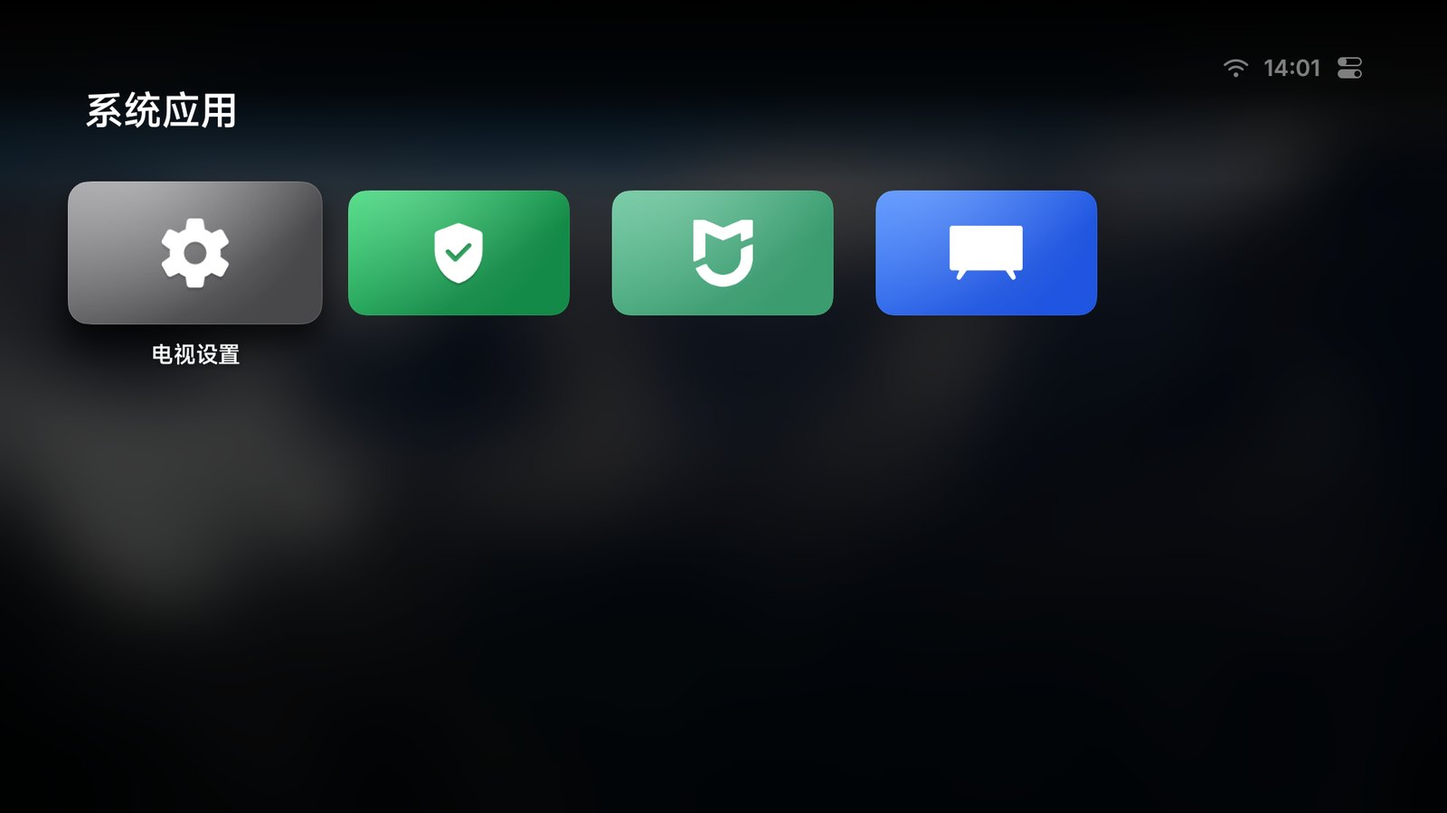
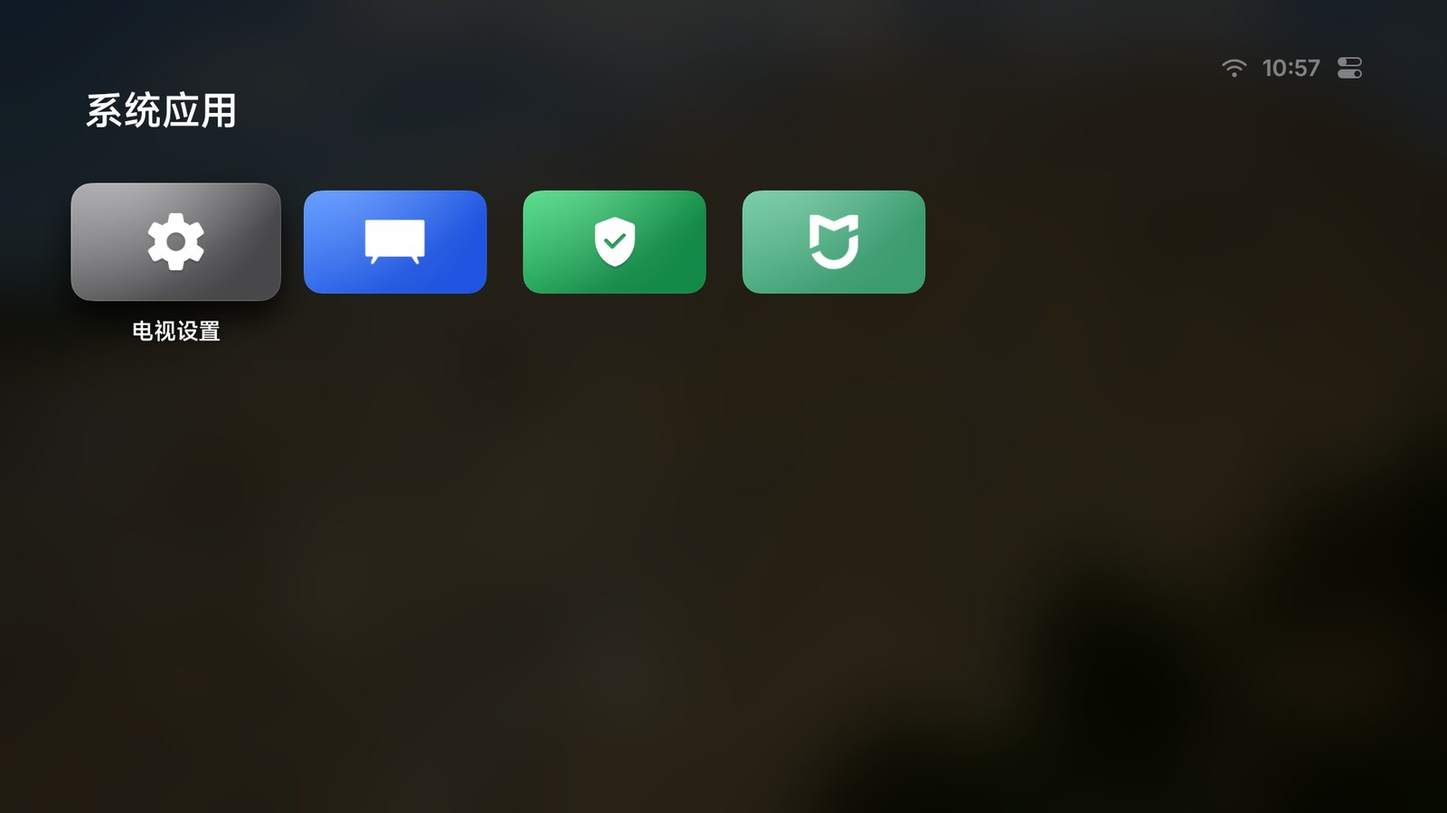
Site and README: screenshots from 1.65 on the Xiaomi, six per row over bright aerial films; Layout section, Open When TV Turns On, video wallpapers, Lite chip

diff --git a/site/en/index.html b/site/en/index.html
@@ -16,7 +16,7 @@
 <meta name="description" content="An open-source, tvOS-style home screen for Android TV. No ads, no recommendation feeds. Just your apps, your wallpaper and Apple TV's aerial screensavers. Built for Xiaomi, TCL, Skyworth, Sony and other TVs and boxes sold in China.">
 <meta property="og:title" content="Aerial · A calm home screen for Android TV">
 <meta property="og:description" content="An open-source, tvOS-style home screen for Android TV. No ads, and it stays your home screen.">
-<meta property="og:image" content="../img/home.jpg?v=147">
+<meta property="og:image" content="../img/home.jpg?v=165">
 <meta name="theme-color" content="#000000">
 <link rel="alternate" hreflang="zh" href="https://aerial.qust.me/">
 <link rel="alternate" hreflang="en" href="https://aerial.qust.me/en/">
@@ -55,7 +55,7 @@
       <div class="glow"></div>
       <div class="screen compare" id="compare" role="slider" tabindex="0" aria-label="The TV's stock home screen compared with Aerial. Move left or right to compare." aria-valuemin="0" aria-valuemax="100" aria-valuenow="0">
         <img class="before" src="../img/stock-xiaomi.jpg?v=3" alt="The TV's stock home screen, covered in show recommendations and membership badges" width="1600" height="900">
-        <div class="after"><img src="../img/home.jpg?v=147" alt="Aerial's home screen: a landscape wallpaper and a row of apps on a glass shelf" width="1600" height="900"></div>
+        <div class="after"><img src="../img/home.jpg?v=165" alt="Aerial's home screen: an aerial wallpaper of Waimanu Valley, Hawaii, and six apps in a row on a glass shelf" width="1600" height="900"></div>
         <div class="divider" aria-hidden="true"><span class="knob"><svg width="20" height="20" viewBox="0 0 24 24" fill="none" stroke="currentColor" stroke-width="2.4" stroke-linecap="round" stroke-linejoin="round"><path d="M9 6l-6 6 6 6M15 6l6 6-6 6"/></svg></span></div>
       </div>
       <div class="stand"></div>
@@ -75,7 +75,7 @@
     </div>
 
     <div class="feature reveal">
-      <div class="shot"><img src="../img/focus.jpg?v=146" alt="The glass shelf under the top row, with an app in focus" loading="lazy" width="1600" height="900"></div>
+      <div class="shot"><img src="../img/focus.jpg?v=165" alt="Netflix in focus on the top row, over an aerial wallpaper of Landmannalaugar, Iceland" loading="lazy" width="1600" height="900"></div>
       <div>
         <p class="kicker">Home</p>
         <h3>As easy as<br>Apple TV.</h3>
@@ -85,16 +85,17 @@
     </div>
 
     <div class="feature flip reveal">
-      <div class="shot"><img src="../img/menu.jpg?v=146" alt="The long-press menu: Move, Move to Folder, Hide, App Info, Uninstall" loading="lazy" width="1600" height="900"></div>
+      <div class="shot"><img src="../img/menu.jpg?v=165" alt="The long-press menu: Move, Move to Folder, Hide from Home, App Info, Open When TV Turns On, Uninstall" loading="lazy" width="1600" height="900"></div>
       <div>
         <p class="kicker">Organize</p>
         <h3>Hold OK<br>to make it yours.</h3>
         <p><strong>Move</strong>, put in a <strong>folder</strong>, <strong>hide</strong>, inspect or uninstall any app. Hidden apps wait in Personalize.</p>
+        <p>Choose <strong>Open When TV Turns On</strong> and the TV goes straight to that app or input when it turns on or wakes, and leaves you alone while it stays on.</p>
       </div>
     </div>
 
     <div class="feature reveal">
-      <div class="shot"><img src="../img/folder.jpg?v=146" alt="An open folder of system apps" loading="lazy" width="1600" height="900"></div>
+      <div class="shot"><img src="../img/folder.jpg?v=165" alt="An open folder of system apps" loading="lazy" width="1600" height="900"></div>
       <div>
         <p class="kicker">Folders</p>
         <h3>Tuck the TV's own apps<br>into a folder.</h3>
@@ -103,11 +104,20 @@
     </div>
 
     <div class="feature flip reveal">
-      <div class="shot"><img src="../img/control-center.jpg?v=146" alt="Control Center: inputs, network, settings, volume and brightness" loading="lazy" width="1600" height="900"></div>
+      <div class="shot"><img src="../img/control-center.jpg?v=165" alt="Control Center: inputs, network, settings, volume and brightness" loading="lazy" width="1600" height="900"></div>
       <div>
         <p class="kicker">Control Center</p>
         <h3>Everyday controls,<br>one button away.</h3>
         <p>Inputs, network, settings, volume and brightness, all in one place. Pin an HDMI input to Home to switch in one press.</p>
+      </div>
+    </div>
+
+    <div class="feature reveal">
+      <div class="shot"><img src="../img/columns.jpg?v=165" alt="Home settings in Personalize, with six apps per row chosen" loading="lazy" width="1600" height="900"></div>
+      <div>
+        <p class="kicker">Layout</p>
+        <h3>As many per row<br>as you like.</h3>
+        <p>Four, five or six apps a row, one row or two, and your pick of clock size, app names and the glass shelf. Folders and the phone page follow along.</p>
       </div>
     </div>
   </div>
@@ -121,12 +131,12 @@
     </div>
     <div class="gallery reveal">
       <figure>
-        <div class="shot"><img src="../img/screensaver-aerial.jpg?v=146" alt="Aerial screensaver over the Pu‘u O ‘Umi Natural Area Reserve, Hawaii" loading="lazy" width="1600" height="900"></div>
-        <figcaption>Pu‘u O ‘Umi Natural Area Reserve, Hawaii</figcaption>
+        <div class="shot"><img src="../img/screensaver-aerial.jpg?v=165" alt="Aerial screensaver passing Half Dome in Yosemite Valley" loading="lazy" width="1600" height="900"></div>
+        <figcaption>Half Dome, Yosemite Valley</figcaption>
       </figure>
       <figure>
-        <div class="shot"><img src="../img/screensaver-aerial-2.jpg?v=146" alt="Aerial screensaver over the Tungnaá River in the Icelandic Highlands" loading="lazy" width="1600" height="900"></div>
-        <figcaption>The Tungnaá River, Icelandic Highlands</figcaption>
+        <div class="shot"><img src="../img/screensaver-aerial-2.jpg?v=165" alt="Aerial screensaver over the Great Wall at Mutianyu, Beijing" loading="lazy" width="1600" height="900"></div>
+        <figcaption>The Great Wall at Mutianyu, Beijing</figcaption>
       </figure>
     </div>
   </div>
@@ -135,18 +145,18 @@
 <section>
   <div class="wrap">
     <div class="feature reveal">
-      <div class="shot"><img src="../img/wallpaper.jpg?v=146" alt="The Personalize panel" loading="lazy" width="1600" height="900"></div>
+      <div class="shot"><img src="../img/wallpaper.jpg?v=165" alt="The Personalize panel, with the aerial wallpaper chosen" loading="lazy" width="1600" height="900"></div>
       <div>
         <p class="kicker">Wallpaper</p>
-        <h3>A new view every day,<br>or your own photos.</h3>
-        <p>Bing's photo of the day, fourteen Mac-style built-ins, or photos from your phone.</p>
+        <h3>A view that moves,<br>or your own photos.</h3>
+        <p>The aerial wallpaper plays slowly behind your apps while you rest on Home, and stops on the frame at any key. Or pick Bing's photo of the day, fourteen Mac-style built-ins, or photos and videos from your phone.</p>
       </div>
     </div>
     <div class="phone-row reveal" style="margin-top:110px">
       <div>
         <p class="kicker">Set up from your phone</p>
         <h3 class="sub">Scan.<br>Don't type.</h3>
-        <p class="muted">Scan the code on the TV to arrange Home on your phone (drag to reorder, rename, change icons, folders, hide, add HDMI), upload photos, pick a wallpaper or change the screensaver.</p>
+        <p class="muted">Scan the code on the TV to arrange Home on your phone (drag to reorder, rename, change icons, folders, hide, add HDMI), upload photos and videos, pick a wallpaper or change the screensaver.</p>
       </div>
       <div class="phone"><img src="../img/phone.jpg?v=147" alt="The Home Screen tab of the phone page: the TV's tiles in a grid" loading="lazy" width="780" height="1384"></div>
     </div>
@@ -183,6 +193,7 @@
       <span class="chip"><b>Sony BRAVIA</b> · Android 10–12</span>
       <span class="chip"><b>Konka</b> · Android 9</span>
       <span class="chip"><b>Boxes and projectors</b> · XGIMI, OBE, Aurora</span>
+      <span class="chip"><b>Older TVs</b> · Android 4.0–4.4 with Aerial Lite</span>
       <a class="chip chip-link" href="https://github.com/pengchujin/aerial-tv/blob/main/README.en.md#supported-tvs">Full <b>list</b> ›</a>
     </div>
     <p class="note devices-note reveal">Hisense / Vidda and some Coocaa sets boot into their own home first; FFALCON MT9655 models can't be taken over yet.</p>

diff --git a/site/index.html b/site/index.html
@@ -16,7 +16,7 @@
 <meta name="description" content="参照 tvOS 设计的开源 Android TV 桌面。没有广告，没有推荐流，只有你的 App、你的壁纸和航拍屏保。支持小米、TCL、创维、索尼等国产电视和盒子，开机自动接管。">
 <meta property="og:title" content="Aerial · 给国产电视的一块干净桌面">
 <meta property="og:description" content="参照 tvOS 设计的开源电视桌面，没有广告，开机自动接管。">
-<meta property="og:image" content="img/home.jpg?v=147">
+<meta property="og:image" content="img/home.jpg?v=165">
 <meta name="theme-color" content="#000000">
 <link rel="alternate" hreflang="zh" href="https://aerial.qust.me/">
 <link rel="alternate" hreflang="en" href="https://aerial.qust.me/en/">
@@ -56,7 +56,7 @@
       <div class="glow"></div>
       <div class="screen compare" id="compare" role="slider" tabindex="0" aria-label="电视自带的桌面和 Aerial 的对比，左右移动查看" aria-valuemin="0" aria-valuemax="100" aria-valuenow="0">
         <img class="before" src="img/stock-xiaomi.jpg?v=3" alt="电视自带的桌面：满屏剧集推荐、会员和限免角标" width="1600" height="900">
-        <div class="after"><img src="img/home.jpg?v=147" alt="Aerial 首页：风景壁纸和玻璃底板上的一排 App" width="1600" height="900"></div>
+        <div class="after"><img src="img/home.jpg?v=165" alt="Aerial 首页：夏威夷威马努山谷的航拍壁纸，玻璃底板上一排六个 App" width="1600" height="900"></div>
         <div class="divider" aria-hidden="true"><span class="knob"><svg width="20" height="20" viewBox="0 0 24 24" fill="none" stroke="currentColor" stroke-width="2.4" stroke-linecap="round" stroke-linejoin="round"><path d="M9 6l-6 6 6 6M15 6l6 6-6 6"/></svg></span></div>
       </div>
       <div class="stand"></div>
@@ -76,7 +76,7 @@
     </div>
 
     <div class="feature reveal">
-      <div class="shot"><img src="img/focus.jpg?v=146" alt="第一排的玻璃底板，选中了一个 App" loading="lazy" width="1600" height="900"></div>
+      <div class="shot"><img src="img/focus.jpg?v=165" alt="冰岛兰德曼纳劳卡的航拍壁纸前，第一排选中了 Netflix" loading="lazy" width="1600" height="900"></div>
       <div>
         <p class="kicker">首页</p>
         <h3>像 Apple TV<br>一样顺手。</h3>
@@ -86,16 +86,17 @@
     </div>
 
     <div class="feature flip reveal">
-      <div class="shot"><img src="img/menu.jpg?v=146" alt="长按菜单：移动、移到文件夹、隐藏、应用信息、卸载" loading="lazy" width="1600" height="900"></div>
+      <div class="shot"><img src="img/menu.jpg?v=165" alt="长按菜单：移动、移到文件夹、从主屏幕隐藏、应用信息、开机时打开、卸载" loading="lazy" width="1600" height="900"></div>
       <div>
         <p class="kicker">整理</p>
         <h3>长按一下，<br>想怎么排就怎么排。</h3>
         <p>长按 OK 键：<strong>移动</strong>、<strong>移到文件夹</strong>、<strong>隐藏</strong>、查看信息、卸载。隐藏的 App 可以在「个性化」里找回。</p>
+        <p>选「<strong>开机时打开</strong>」，电视开机或待机醒来就直接进这个 App 或信号源，一直开着时不会再跳。</p>
       </div>
     </div>
 
     <div class="feature reveal">
-      <div class="shot"><img src="img/folder.jpg?v=146" alt="打开的文件夹：系统应用" loading="lazy" width="1600" height="900"></div>
+      <div class="shot"><img src="img/folder.jpg?v=165" alt="打开的文件夹：系统应用" loading="lazy" width="1600" height="900"></div>
       <div>
         <p class="kicker">文件夹</p>
         <h3>系统自带的 App，<br>收进一个文件夹。</h3>
@@ -104,11 +105,20 @@
     </div>
 
     <div class="feature flip reveal">
-      <div class="shot"><img src="img/control-center.jpg?v=146" alt="控制中心：信号源、网络、设置、音量和亮度" loading="lazy" width="1600" height="900"></div>
+      <div class="shot"><img src="img/control-center.jpg?v=165" alt="控制中心：信号源、网络、设置、音量和亮度" loading="lazy" width="1600" height="900"></div>
       <div>
         <p class="kicker">控制中心</p>
         <h3>常用开关，<br>一键就到。</h3>
         <p>信号源、网络、设置、音量、亮度都在这里。HDMI 还能固定到首页，一键切换。</p>
+      </div>
+    </div>
+
+    <div class="feature reveal">
+      <div class="shot"><img src="img/columns.jpg?v=165" alt="个性化的主屏幕设置：每排 App 选了 6 个" loading="lazy" width="1600" height="900"></div>
+      <div>
+        <p class="kicker">布局</p>
+        <h3>一排放几个，<br>你说了算。</h3>
+        <p>每排 4、5 或 6 个 App，单排或双排，时钟大小、App 名称、第一排底板也都能改。文件夹和手机上的整理页跟着一起变。</p>
       </div>
     </div>
   </div>
@@ -122,12 +132,12 @@
     </div>
     <div class="gallery reveal">
       <figure>
-        <div class="shot"><img src="img/screensaver-aerial.jpg?v=146" alt="航拍屏保：俯瞰夏威夷岛 Pu‘u O ‘Umi 自然保护区" loading="lazy" width="1600" height="900"></div>
-        <figcaption>夏威夷岛 Pu‘u O ‘Umi 自然保护区</figcaption>
+        <div class="shot"><img src="img/screensaver-aerial.jpg?v=165" alt="航拍屏保：途经美国优胜美地谷的半穹顶" loading="lazy" width="1600" height="900"></div>
+        <figcaption>美国优胜美地谷的半穹顶</figcaption>
       </figure>
       <figure>
-        <div class="shot"><img src="img/screensaver-aerial-2.jpg?v=146" alt="航拍屏保：俯瞰冰岛高地通纳河" loading="lazy" width="1600" height="900"></div>
-        <figcaption>冰岛高地通纳河</figcaption>
+        <div class="shot"><img src="img/screensaver-aerial-2.jpg?v=165" alt="航拍屏保：中国北京怀柔区慕田峪长城" loading="lazy" width="1600" height="900"></div>
+        <figcaption>北京怀柔慕田峪长城</figcaption>
       </figure>
     </div>
   </div>
@@ -136,18 +146,18 @@
 <section>
   <div class="wrap">
     <div class="feature reveal">
-      <div class="shot"><img src="img/wallpaper.jpg?v=146" alt="个性化面板" loading="lazy" width="1600" height="900"></div>
+      <div class="shot"><img src="img/wallpaper.jpg?v=165" alt="个性化面板：壁纸选了航拍" loading="lazy" width="1600" height="900"></div>
       <div>
         <p class="kicker">壁纸</p>
-        <h3>每天一张新风景，<br>或者你的照片。</h3>
-        <p>必应每日精选、14 张 Mac 风格的内置壁纸，或者从手机传的照片。</p>
+        <h3>会动的风景，<br>或者你的照片。</h3>
+        <p>航拍壁纸停在主屏幕时在 App 后面慢慢播放，按任意键停在当前画面。也可以选必应每日一图、14 张 Mac 风格的内置壁纸，或者从手机传的照片和视频。</p>
       </div>
     </div>
     <div class="phone-row reveal" style="margin-top:110px">
       <div>
         <p class="kicker">用手机设置</p>
         <h3 class="sub">扫一下，<br>不用遥控器打字。</h3>
-        <p class="muted">扫电视上的二维码，在手机上整理主屏幕（拖动排序、改名、换图标、文件夹、隐藏、加 HDMI），还能传照片、选壁纸、换屏保。</p>
+        <p class="muted">扫电视上的二维码，在手机上整理主屏幕（拖动排序、改名、换图标、文件夹、隐藏、加 HDMI），还能传照片和视频、选壁纸、换屏保。</p>
       </div>
       <div class="phone"><img src="img/phone.jpg?v=147" alt="手机设置页的主屏幕标签：和电视一样的图标网格" loading="lazy" width="780" height="1384"></div>
     </div>
@@ -184,6 +194,7 @@
       <span class="chip"><b>索尼 BRAVIA</b> · Android 10–12</span>
       <span class="chip"><b>康佳</b> · Android 9</span>
       <span class="chip"><b>盒子和投影仪</b> · 极米、大眼橙、极光盒子</span>
+      <span class="chip"><b>老电视</b> · Android 4.0–4.4 用 Aerial Lite</span>
       <a class="chip chip-link" href="https://github.com/pengchujin/aerial-tv#支持的机型">完整<b>机型列表</b> ›</a>
     </div>
     <p class="note devices-note reveal">海信 / Vidda 和部分酷开开机会先进原桌面，雷鸟 MT9655 机型暂时接管不了。</p>

diff --git a/docs/HANDOFF.md b/docs/HANDOFF.md
@@ -6,6 +6,8 @@
 
 - **1.65（versionCode 79）+ Aerial Lite 1.4（versionCode 5），2026-10-28 发布**（[v1.65](https://github.com/pengchujin/aerial-tv/releases/tag/v1.65)）：下一条的「每排 App：4 / 5 / 6」（户主要求，Lite 同样有，所以 Lite 升到 1.4）。正式包装到小米 MFTR0（standard，`adb install -r` + compile speed）和 TCL MT5879（guard，多屏互动推送，ADB 点「同意」：提示框出来时两个按钮都没焦点，第一次右键落到「拒绝」，第二次才到「同意」，每步截图确认）；两台 `selftest.sh` 的守护、Aerial 上按主页键、从其他 App 按主页键都通过（小米从设置 0.4 秒，TCL 从酷控 5.0 秒），信号源小米列出 8 个、TCL 7 个。`deploy-site.sh` 已跑，官网三个 APK 与 Release 大小一致，`download/version.txt` = v1.65。没有对应 issue 要回复（户主自己提的）。户主看过参照 tvOS 26 调尺寸（5:3 磁贴、同心圆角、1.225 倍放大）的效果后要求撤回，没有发布（Apple TV 1080p 截图量出：磁贴 250×150、间距 48、两边 90、底板四边 40、磁贴圆角约 30、底板圆角约 67、聚焦 1.225 倍）；不要再按那套改，除非户主再提。
 
+- **官网截图换成 1.65（2026-10-28，户主要求，未部署）**：小米 MFTR0 上拍，临时切成每排 6 个（户主指定），拍完 `--ei home_columns 5` 改回并截图确认。都用航拍壁纸里明亮的片子，每张换一个场景：首页夏威夷威马努山谷，聚焦和长按菜单（有新的「开机时打开」）冰岛兰德曼纳劳卡，网格和文件夹慕田峪长城，控制中心和个性化冰岛朗吉湖，屏保优胜美地半穹顶和慕田峪长城；新加 `columns.jpg`（个性化里「每排 App」焦点在 6）和官网「布局」一节，README 的个性化图换成它。控制中心模糊了 Wi-Fi 名称，个性化模糊了二维码、局域网地址和「我的照片」。官网文字补了开机时打开、每排 4/5/6、航拍壁纸、传视频、Android 4.x 用 Lite，图片 `?v=165`。屏保里刚切片时 `screencap` 常截到彩色噪点，多等几秒或唤醒后（画面停住）再截就正常。
+
 - **已随 1.65 发布（2026-10-28，户主要求：每排 App 数）**：个性化 → 主屏幕布局加「每排 App：4 / 5 / 6」（默认 5，6 个照 Apple TV 的排法），文件夹跟着变，手机页「整理主屏幕」网格也按电视的列数排（`layout.columns`）。`AerialSettings.homeColumns`（prefs `home_columns`，`ConfigReceiver --ei home_columns 6`，诊断 `Settings` 行加 `columns=`）；`HomeScreen` 的 `GridMetrics` 按列数算，间距 4/5/6 列为 34/28/24dp，边距不变；4 列时聚焦磁贴比原来的 352px 磁贴图大，所以 `TileArtFactory.fitColumns` 让 4 列的磁贴图画到 444px（1080p），切换时重新载入 App，5↔6 只按新尺寸重做磁贴面（`TileFaces` 换尺寸时丢掉旧尺寸）。Lite 同样改（`LiteSettings.homeColumns`，`HomeView` 的尺寸常量改成跟随设置，换列数后按新尺寸重载磁贴）。验证：小米 MFTR0 本地 standard release + compile speed：`--ei home_columns` 切 6、4 截图，4 列进网格、App 菜单位置正常，个性化里看到新行并在界面上点回 5（户主原来就是 5），无崩溃。放不满的情况用新加的测试开关看过：`ConfigReceiver --ei preview_apps N` 让首页只显示前 N 个磁贴，只在内存里，不隐藏、不移动任何 App，设 0 或重启就恢复；2、3 个 App × 4/5/6 列都截图看过，底板仍是整排宽、App 靠左（#284 的做法），没有错位，测完已设回 0 和 5 列。注意户主屏保 45 秒，`input keyevent` 的左右键在屏保里是换片，不会唤醒，要用上键。**没有真机验证的**：Lite（只过了编译和 `lintRelease`）、TCL、手机页的列数（没打开手机页看）。
 - **1.64（versionCode 78），2026-10-28 发布**（[v1.64](https://github.com/pengchujin/aerial-tv/releases/tag/v1.64)）：下面「户主报的」一条的两个屏保修复（图片壁纸 + 航拍屏保不再停在壁纸上；照片屏保开头推近不再抖）。Lite 没变，Release 里仍附 Lite 1.3（重新编译，versionCode 4）。正式包装到小米 MFTR0（standard，`adb install -r` + compile speed）和 TCL MT5879（guard，多屏互动推送，ADB 点「同意」）；两台 `selftest.sh` 的守护、Aerial 上按主页键、从其他 App 按主页键都通过（小米从设置 0.9 秒，TCL 从酷控 5.1 秒）。`deploy-site.sh` 已跑，官网三个 APK 与 Release 大小一致，`download/version.txt` = v1.64。没有对应 issue 要回复（户主自己报的）。
 - **已随 1.64 发布（2026-10-28，户主报的）**：静止（图片）壁纸 + 航拍屏保（4K 或杜比视界），进屏保时画面停在主屏的壁纸上几秒，影片才一下子跳出来。1.61 的 #683 引入：主屏把图片和时钟带进屏保，SurfaceView 等 2 秒才挂上，等影片动了再从图片淡入（1.62 #754 又让影片等 surface 才播）。小米 MFTR0 录屏：图片停到约 8 秒才切到影片，没有淡入。户主的意见：静止图和航拍（另一个平面、杜比视界 / HDR）过渡不了也不需要过渡，直接进航拍屏保；只有航拍壁纸接航拍屏保（都是 SDR）才接着放。现在去掉了这段接力（`aerialSaverPicture`、`SaverCarry.Still.thenAerials`、`AerialSaver` 的 `over`），回到 1.60 的做法（主屏淡到黑、影片淡入）；屏保播放器仍不用占位 surface（#754 的修复保留，SurfaceView 从第一帧就在）。照片屏保接图片壁纸、航拍壁纸接航拍屏保不变。#683 报告人要的「图片壁纸时大时钟进出屏保动画」因此不做。验证（小米 MFTR0，本地 standard release，compile speed，户主当前就是图片壁纸 + 杜比视界航拍屏保）：`PREVIEW_SCREENSAVER` 录屏，主屏 0.4 秒淡到黑，第一帧 462 ms（改前 2.2–2.5 秒），logcat 有 `AcquireVdecHw … dv 1`、0 帧 DIP；唤醒回主屏正常，守护绑定。录屏里杜比视界影片出现得比第一帧晚几秒（录屏抓视频层的延迟，改前也一样），屏幕上没有用眼睛看。TCL 没装。Lite 没有这段接力，不用改。同一次：照片壁纸 + 照片屏保，屏保开头 18 秒（主屏的照片慢慢推近，`drawDrawingIn`）画面一顿一顿地抖。1.38（ae60670）起就有：位置和大小取整到像素，每秒只推 2–3 像素，整张图停几帧再跳 1 像素，左右边缘不同时跳。现在用画布的缩放和平移画（小数像素）。小米录屏逐帧算：改前帧差 0、0、0.6–1.6 交替，改后每帧 0.1–0.3 连续。测时屏保临时改成照片，测完改回航拍（`ConfigReceiver --es screensaver aerial`，预览确认是 Aerial）。Lite 的照片屏保用 View 的 scale 属性，本来就是小数，不用改。

diff --git a/README.en.md b/README.en.md
@@ -36,12 +36,12 @@ Made for Xiaomi, TCL, Skyworth, Sony and other TVs sold in China, and runs on bo
 </p>
 
 - **Home**: your favorite apps in one row on a glass shelf at the bottom, every app below it. Hidden system apps like Xiaomi's App Store and Mi Home show up too.
-- **Organize**: hold OK (or press Menu) to move an app, put it in a folder, hide it or uninstall it. An HDMI input pinned to Home can say what is plugged in (Apple TV, PlayStation, Switch, Xbox, a computer...) and take its icon, or a name you type on your phone.
+- **Organize**: hold OK (or press Menu) to move an app, put it in a folder, hide it, uninstall it, or have the TV open it at power on and wake. An HDMI input pinned to Home can say what is plugged in (Apple TV, PlayStation, Switch, Xbox, a computer...) and take its icon, or a name you type on your phone.
 - **Arrange from your phone**: scan the code on the TV and your phone shows Home as the TV lays it out. Drag tiles into place; tap one to rename it, change its icon, put it in a folder or hide it; add HDMI and other inputs to Home.
 - **Control Center**: press Up from the top row to the top right. Inputs, network, settings, volume, brightness and Personalize.
 - **Screensaver**: Apple TV's 114 aerial films, in 4K or 4K Dolby Vision where the TV supports it, your photos, a clock, or local videos sent from your phone ([guide, Chinese](docs/SCREENSAVER_VIDEOS.md)).
-- **Wallpaper**: Bing's photo of the day, fourteen built-ins, photos you upload by scanning a code with your phone, or aerial films that play behind the apps after ten still seconds on Home and stop on the frame showing at any key.
-- **Personalize**: one or two rows, clock size and corner, app names, focus style and key sounds.
+- **Wallpaper**: Bing's photo of the day, fourteen built-ins, photos and videos you upload by scanning a code with your phone, or aerial films that play behind the apps after ten still seconds on Home and stop on the frame showing at any key.
+- **Personalize**: four, five or six apps a row, one or two rows, clock size and corner, app names, focus style and key sounds.
 
 <p align="center">
   <img src="site/img/folder.jpg" width="49%" alt="An open folder">
@@ -50,7 +50,7 @@ Made for Xiaomi, TCL, Skyworth, Sony and other TVs sold in China, and runs on bo
 
 <p align="center">
   <img src="site/img/screensaver-aerial.jpg" width="49%" alt="Aerial screensaver">
-  <img src="site/img/wallpaper.jpg" width="49%" alt="The Personalize panel">
+  <img src="site/img/columns.jpg" width="49%" alt="Personalize, with six apps per row">
 </p>
 
 ## Install

diff --git a/README.md b/README.md
@@ -36,12 +36,12 @@
 </p>
 
 - **首页**：常用的一排 App 放在屏幕下方的玻璃底板上，往下是全部 App。小米「应用中心」「米家」这类藏起来的系统 App 也在。
-- **整理**：长按 OK 键（或按菜单键）可以移动、放进文件夹、隐藏、卸载。固定到主屏幕的 HDMI 可以选接的是 Apple TV、PlayStation、Switch、Xbox、电脑等，换成对应的图标，也能在手机上起名字。
+- **整理**：长按 OK 键（或按菜单键）可以移动、放进文件夹、隐藏、卸载，或者设成「开机时打开」（开机、待机醒来直接进这个 App 或信号源）。固定到主屏幕的 HDMI 可以选接的是 Apple TV、PlayStation、Switch、Xbox、电脑等，换成对应的图标，也能在手机上起名字。
 - **用手机整理**：扫电视上的二维码，手机上就是和电视一样的图标网格：按住拖动排序，点一下改名、换图标、放进文件夹或隐藏，也能把 HDMI 等信号源加到主屏幕。
 - **控制中心**：在第一排按上键到右上角打开，有信号源、网络、设置、音量、亮度和个性化。
 - **屏保**：Apple TV 的 114 段航拍影片，电视支持时播 4K 或 4K 杜比视界，也可以换成照片、时钟或从手机添加的本地视频（[说明](docs/SCREENSAVER_VIDEOS.md)）。
-- **壁纸**：必应每日精选、14 张内置壁纸、用手机扫码传的照片，或者航拍：停在主屏幕 10 秒后在磁贴后面播放，按任意键停在当前画面。
-- **个性化**：单排或双排、时钟大小和位置、App 名称、焦点样式、按键声音，都能改。
+- **壁纸**：必应每日精选、14 张内置壁纸、用手机扫码传的照片和视频，或者航拍：停在主屏幕 10 秒后在磁贴后面播放，按任意键停在当前画面。
+- **个性化**：每排 4、5 或 6 个 App，单排或双排、时钟大小和位置、App 名称、焦点样式、按键声音，都能改。
 
 <p align="center">
   <img src="site/img/folder.jpg" width="49%" alt="打开的文件夹">
@@ -50,7 +50,7 @@
 
 <p align="center">
   <img src="site/img/screensaver-aerial.jpg" width="49%" alt="航拍屏保">
-  <img src="site/img/wallpaper.jpg" width="49%" alt="个性化面板">
+  <img src="site/img/columns.jpg" width="49%" alt="个性化：每排 App 选 6 个">
 </p>
 
 ## 安装
